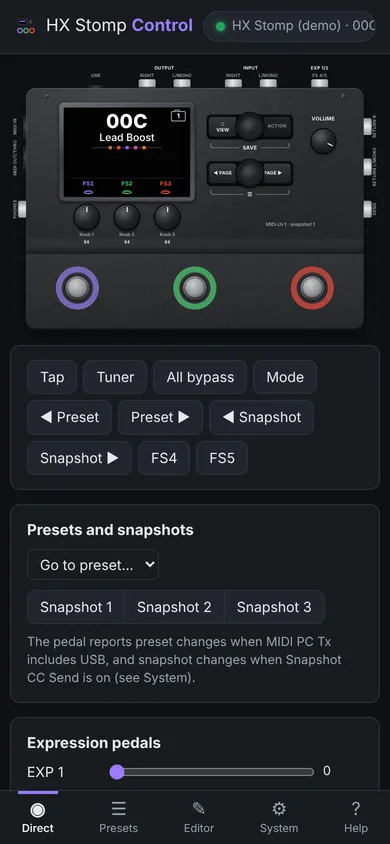
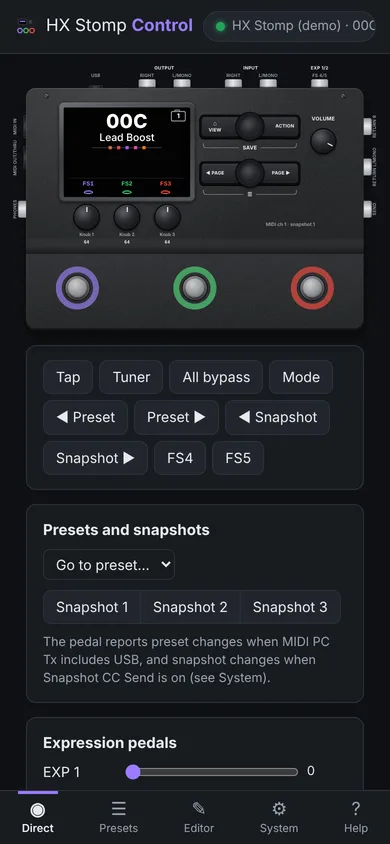
Direct mode: VIEW/ACTION and PAGE labels clear of the knobs; ACTION no longer looks greyed out

diff --git a/web/css/style.css b/web/css/style.css
@@ -224,12 +224,15 @@ table.grid th { font-size: 12px; color: var(--muted); font-weight: 600; }
 .bezel .lcd .fsl b { width: 26px; height: 10px; border: 3px solid; border-radius: 50%; }
 .bezel .lcd.tuner .pn::after { content: ''; }
 .bezel .lcd .tunebar { margin: 18px auto 0; width: 80%; height: 8px; border-radius: 4px; background: linear-gradient(90deg, #e5484d, #f5a524 35%, #3ccf6b 50%, #f5a524 65%, #e5484d); }
-.hxpanel .pill { width: 236px; height: 66px; border-radius: 12px; display: flex; justify-content: space-between; padding: 7px;
+.hxpanel .pill { width: 276px; height: 66px; border-radius: 12px; display: flex; justify-content: space-between; padding: 7px;
   background: #0b0c0d; box-shadow: inset 0 1px 0 rgba(255,255,255,.08), 0 2px 0 #000; }
-.hwkey { width: 74px; height: 52px; border-radius: 8px; padding: 0; border: 1px solid #3c3e43; color: #e8e8ea;
+.hwkey { width: 106px; height: 52px; border-radius: 8px; padding: 0; border: 1px solid #3c3e43; color: #e8e8ea;
   background: linear-gradient(#34363b, #1f2024); box-shadow: inset 0 1px 0 rgba(255,255,255,.08); font: 700 12.5px/1 "Helvetica Neue", Arial, sans-serif; letter-spacing: .4px; }
 .hwkey:active:not(:disabled) { transform: translateY(1px); background: linear-gradient(#2a2c30, #18191c); }
 .hwkey:disabled { opacity: .55; }
+.hwkey.action:disabled { opacity: 1; cursor: default; }  /* ACTION has no MIDI, but looks like the real button */
+.hwkey.view, .hwkey.pl { padding-right: 34px; } .hwkey.action, .hwkey.pr { padding-left: 34px; }  /* clear of the knob */
+.hxpanel.off .hwkey:disabled { opacity: .55; }
 .hwkey.view::before { content: '⌂'; display: block; font-size: 17px; margin-bottom: 3px; }
 .hxpanel .knob { cursor: ns-resize; touch-action: none; }
 .hxpanel .knobwrap .knob { position: relative; }
@@ -247,7 +250,7 @@ table.grid th { font-size: 12px; color: var(--muted); font-weight: 600; }
 .hxpanel .knobwrap .kl { font: 600 12px/1 system-ui; color: #aab0b8; }
 .hxpanel .knobwrap .v { font: 600 12px/1 ui-monospace, monospace; color: #e9e9ea; }
 .hxpanel .plabel { font: 700 14px/1 "Helvetica Neue", Arial, sans-serif; letter-spacing: .5px; color: #e8e8ea; white-space: nowrap; }
-.hxpanel .bracket { display: flex; align-items: flex-end; gap: 10px; width: 216px; justify-content: center; }
+.hxpanel .bracket { display: flex; align-items: flex-end; gap: 10px; width: 256px; justify-content: center; }
 .hxpanel .bracket::before, .hxpanel .bracket::after { content: ''; flex: 1; height: 12px; margin-bottom: 6px; border-bottom: 2px solid #8a8d92; }
 .hxpanel .bracket::before { border-left: 2px solid #8a8d92; border-bottom-left-radius: 9px; }
 .hxpanel .bracket::after { border-right: 2px solid #8a8d92; border-bottom-right-radius: 9px; }
